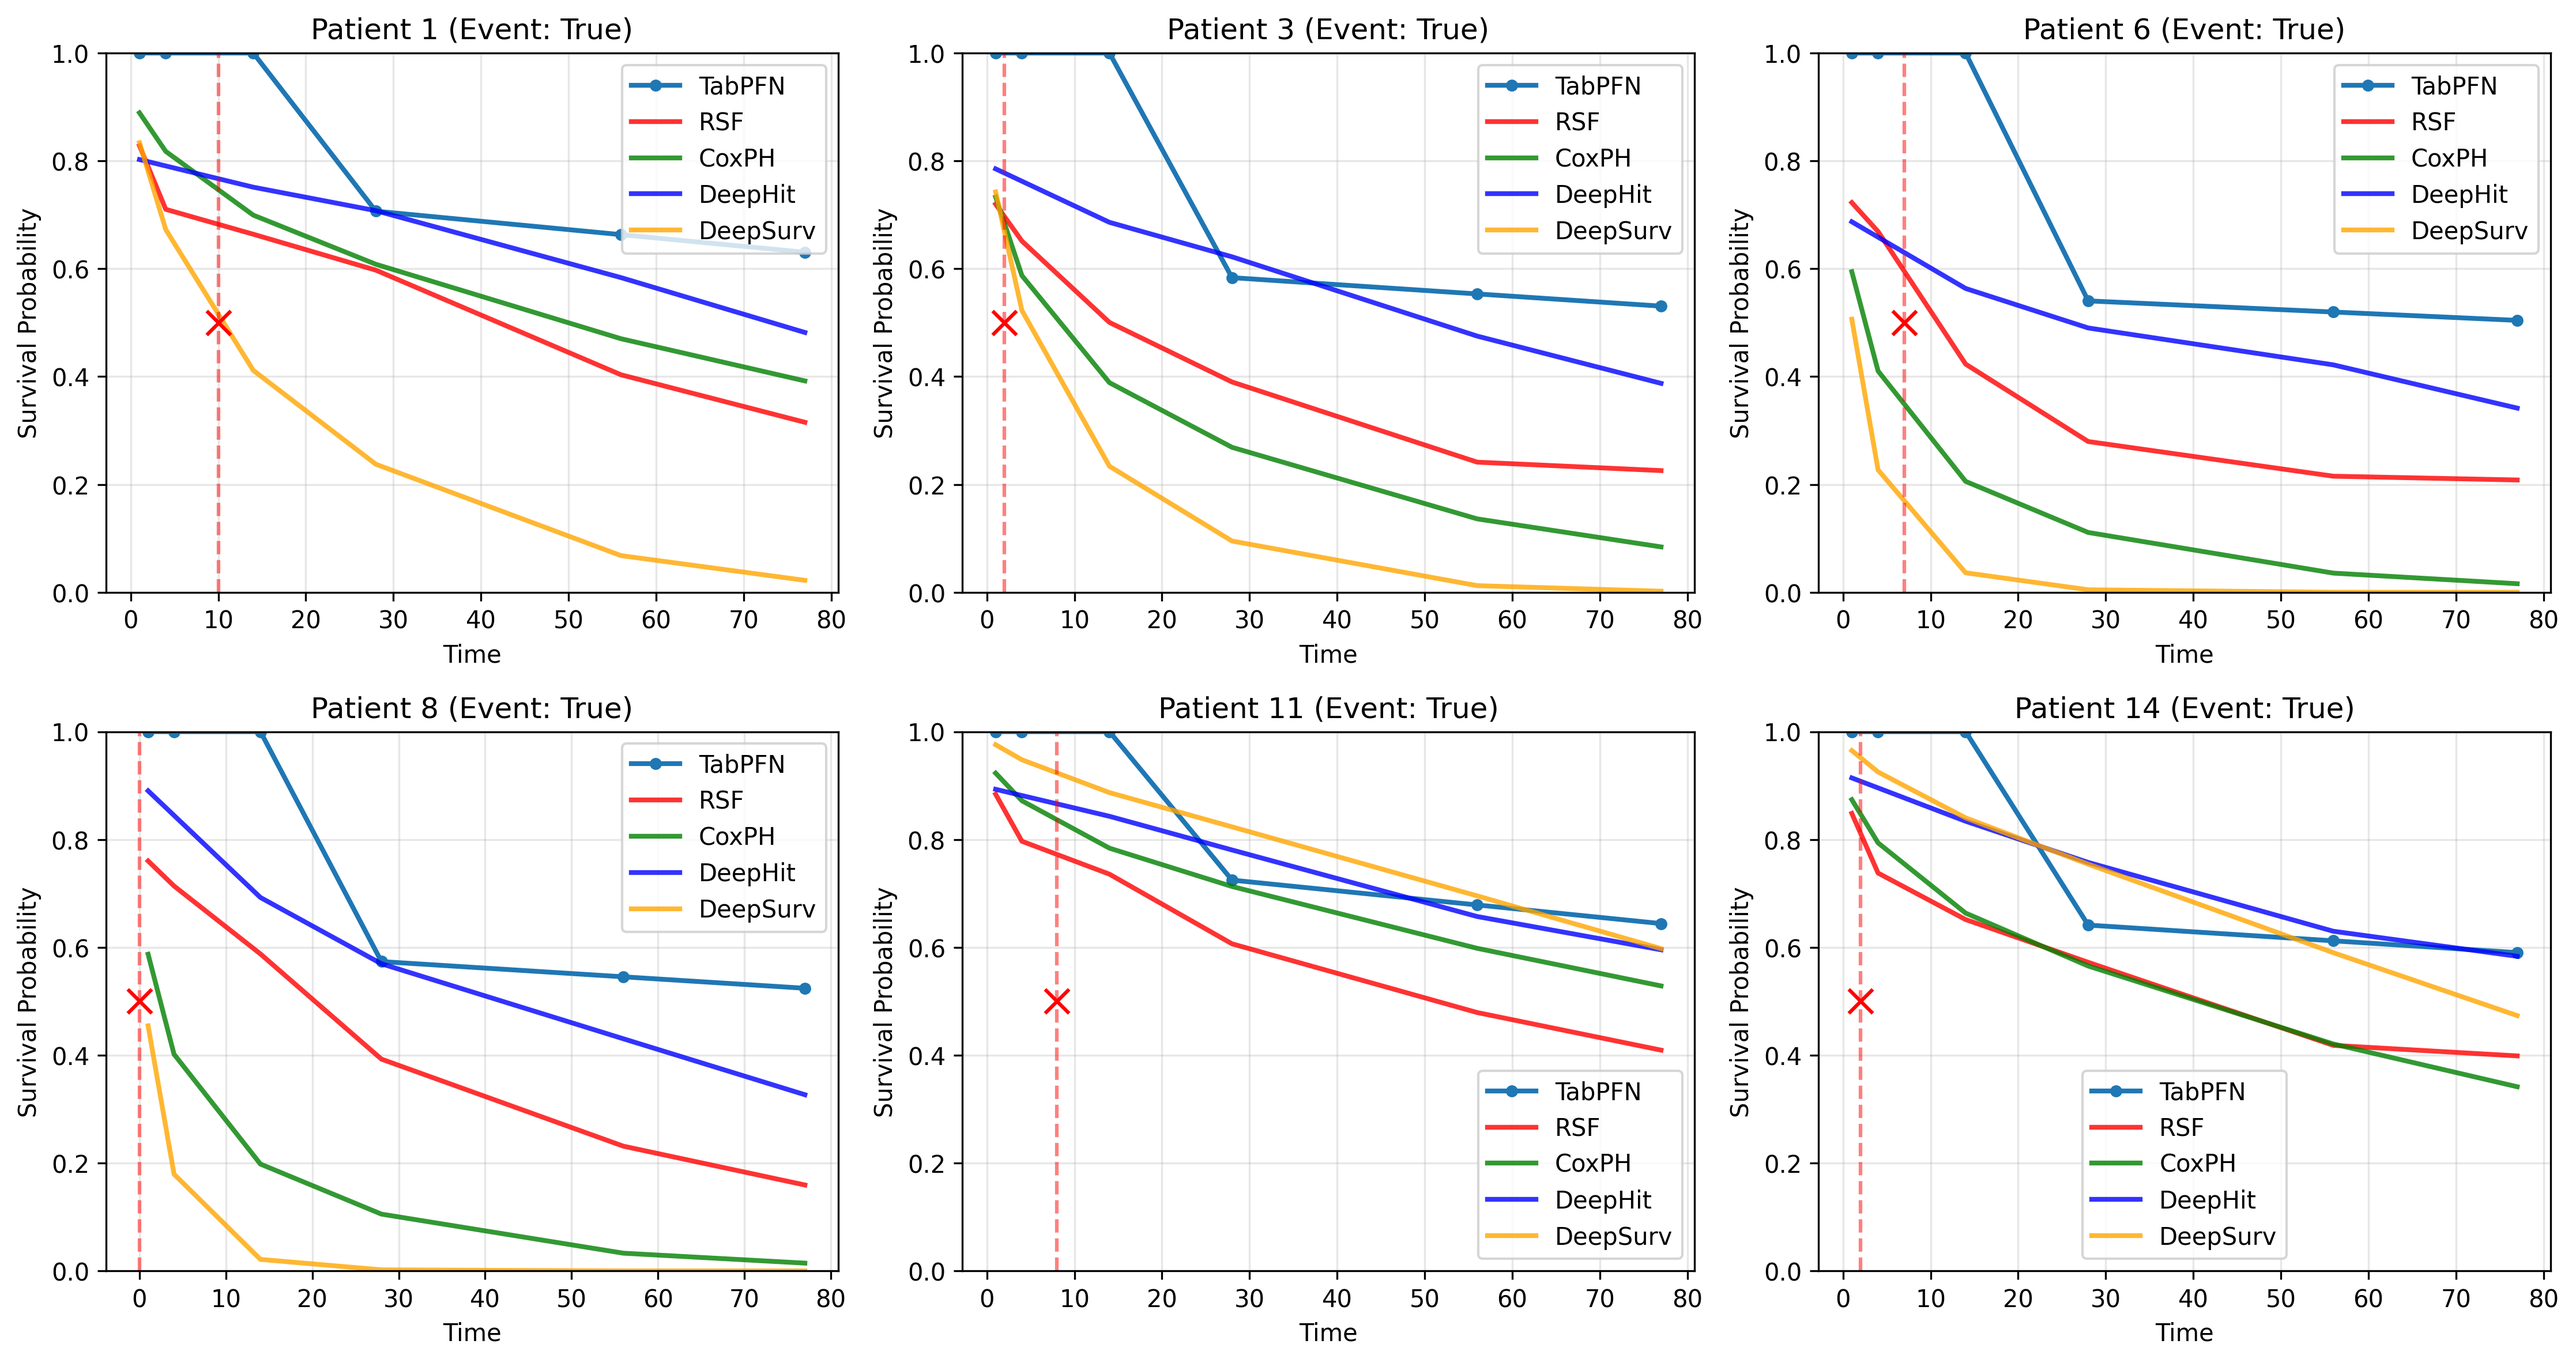
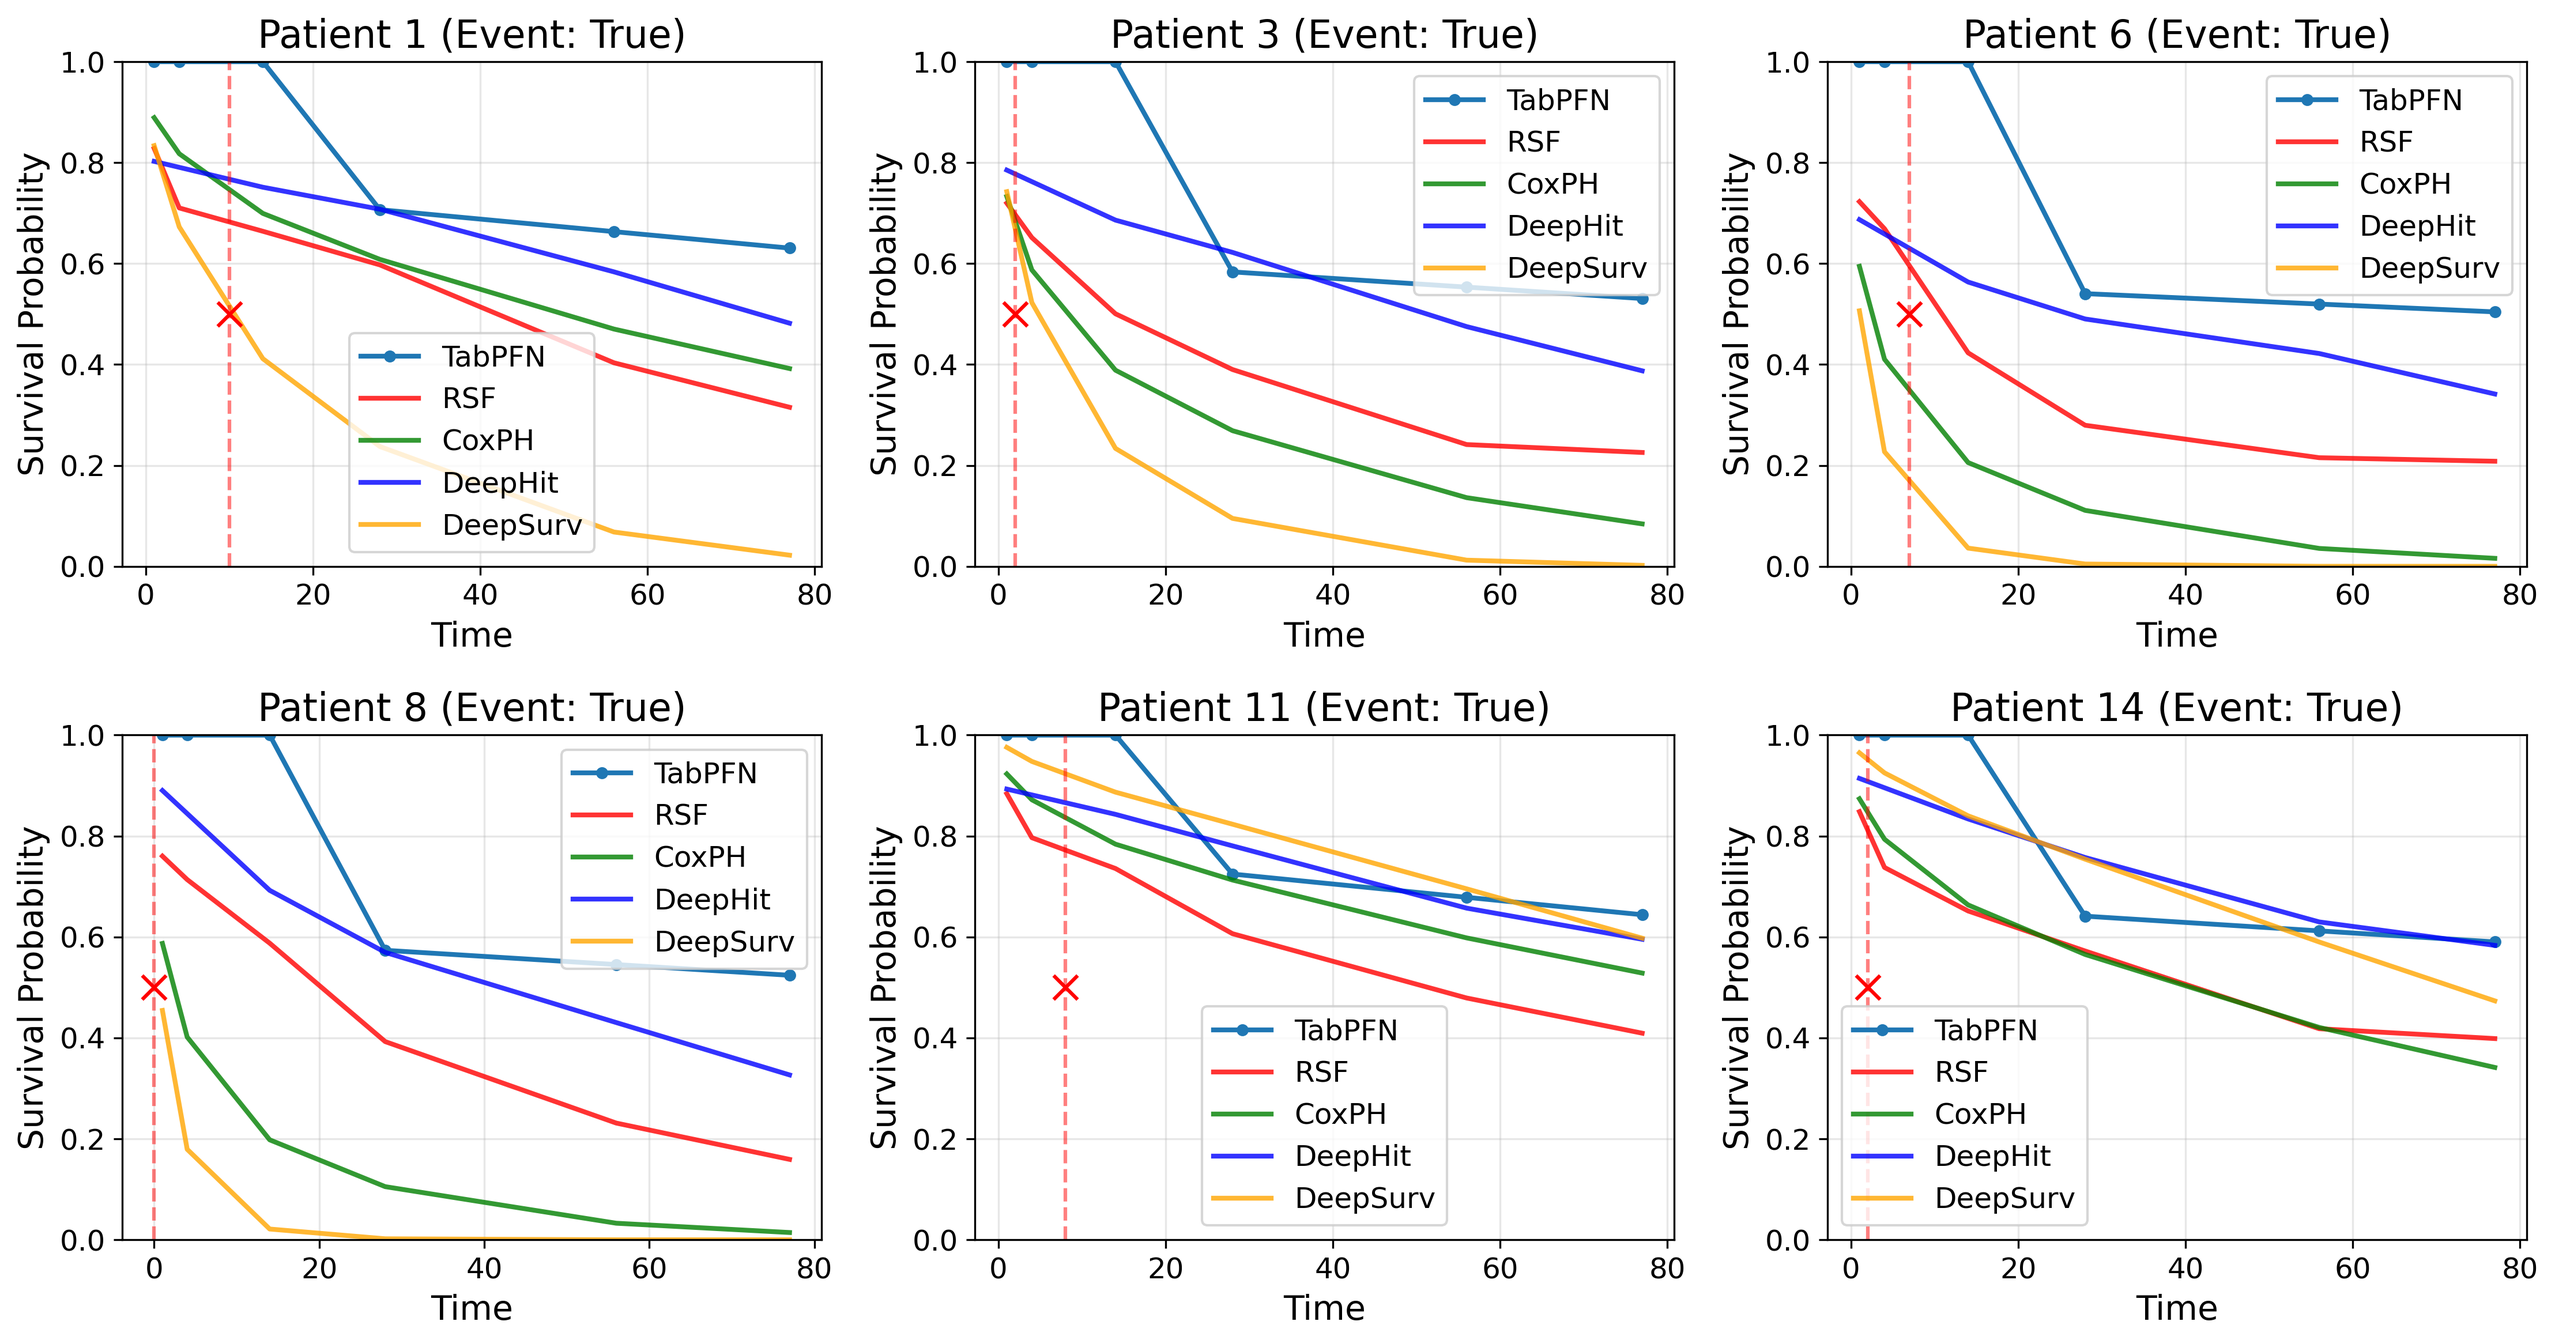
increase font size

diff --git a/discrete_analysis.py b/discrete_analysis.py
@@ -23,6 +23,17 @@ import warnings
 import os
 import random
 import torch
+
+# Set matplotlib font sizes
+plt.rcParams.update({
+    'font.size': 14,
+    'axes.titlesize': 16,
+    'axes.labelsize': 14,
+    'xtick.labelsize': 12,
+    'ytick.labelsize': 12,
+    'legend.fontsize': 12,
+    'figure.titlesize': 18
+})
 from sklearn.model_selection import train_test_split
 from sklearn.impute import SimpleImputer
 from sksurv.util import Surv
@@ -321,10 +332,10 @@ def plot_survival_curves_comparison(S_tabpfn, S_baselines, baseline_names, times
             ax.axvline(actual_time, color=color, linestyle='--', alpha=0.5)
             ax.scatter([actual_time], [0.5], color=color, marker=marker, s=100, zorder=10)
         
-        ax.set_xlabel('Time')
-        ax.set_ylabel('Survival Probability')
-        ax.set_title(f'Patient {idx+1} (Event: {bool(event_status)})')
-        ax.legend()
+        ax.set_xlabel('Time', fontsize=14)
+        ax.set_ylabel('Survival Probability', fontsize=14)
+        ax.set_title(f'Patient {idx+1} (Event: {bool(event_status)})', fontsize=16)
+        ax.legend(fontsize=12)
         ax.grid(True, alpha=0.3)
         ax.set_ylim(0, 1)
     
@@ -350,10 +361,10 @@ def plot_discretization_analysis(cuts, y_trainval, dataset_name):
     for cut in cuts:
         axes[0,0].axvline(cut, color='red', linestyle='--', alpha=0.6)
     
-    axes[0,0].set_xlabel('Time')
-    axes[0,0].set_ylabel('Survival Probability')
-    axes[0,0].set_title('KM Curve with Discretization Cuts')
-    axes[0,0].legend()
+    axes[0,0].set_xlabel('Time', fontsize=14)
+    axes[0,0].set_ylabel('Survival Probability', fontsize=14)
+    axes[0,0].set_title('KM Curve with Discretization Cuts', fontsize=16)
+    axes[0,0].legend(fontsize=12)
     axes[0,0].grid(True, alpha=0.3)
     
     # Plot 2: Distribution of events/censoring across bins
@@ -371,10 +382,10 @@ def plot_discretization_analysis(cuts, y_trainval, dataset_name):
     x = np.arange(len(cuts))
     axes[0,1].bar(x, bin_events, alpha=0.7, label='Events', color='red')
     axes[0,1].bar(x, bin_censored, bottom=bin_events, alpha=0.7, label='Censored', color='blue')
-    axes[0,1].set_xlabel('Discretization Bin')
-    axes[0,1].set_ylabel('Count')
-    axes[0,1].set_title('Events vs Censored by Discretization Bin')
-    axes[0,1].legend()
+    axes[0,1].set_xlabel('Discretization Bin', fontsize=14)
+    axes[0,1].set_ylabel('Count', fontsize=14)
+    axes[0,1].set_title('Events vs Censored by Discretization Bin', fontsize=16)
+    axes[0,1].legend(fontsize=12)
     
     # Plot 3: Censoring rate by time
     time_points = np.linspace(y_trainval['time'].min(), y_trainval['time'].max(), 20)
@@ -388,9 +399,9 @@ def plot_discretization_analysis(cuts, y_trainval, dataset_name):
             censoring_rates.append(0)
     
     axes[1,0].plot(time_points, censoring_rates, 'o-', linewidth=2)
-    axes[1,0].set_xlabel('Time')
-    axes[1,0].set_ylabel('Censoring Rate')
-    axes[1,0].set_title('Censoring Rate Over Time')
+    axes[1,0].set_xlabel('Time', fontsize=14)
+    axes[1,0].set_ylabel('Censoring Rate', fontsize=14)
+    axes[1,0].set_title('Censoring Rate Over Time', fontsize=16)
     axes[1,0].grid(True, alpha=0.3)
     
     # Plot 4: Risk set size over time
@@ -399,9 +410,9 @@ def plot_discretization_analysis(cuts, y_trainval, dataset_name):
         risk_set_sizes.append((y_trainval['time'] >= t).sum())
     
     axes[1,1].plot(time_points, risk_set_sizes, 'o-', linewidth=2, color='green')
-    axes[1,1].set_xlabel('Time')
-    axes[1,1].set_ylabel('Risk Set Size')
-    axes[1,1].set_title('Risk Set Size Over Time')
+    axes[1,1].set_xlabel('Time', fontsize=14)
+    axes[1,1].set_ylabel('Risk Set Size', fontsize=14)
+    axes[1,1].set_title('Risk Set Size Over Time', fontsize=16)
     axes[1,1].grid(True, alpha=0.3)
     
     plt.tight_layout()
@@ -435,10 +446,10 @@ def plot_brier_score_decomposition(S_tabpfn, S_baselines, baseline_names, y_test
     colors = ['red', 'green', 'blue', 'orange']
     for j, name in enumerate(baseline_names):
         plt.plot(times, brier_baselines[name], 's-', label=name, linewidth=2, color=colors[j % len(colors)])
-    plt.xlabel('Time')
-    plt.ylabel('Brier Score')
-    plt.title('Time-specific Brier Scores')
-    plt.legend()
+    plt.xlabel('Time', fontsize=14)
+    plt.ylabel('Brier Score', fontsize=14)
+    plt.title('Time-specific Brier Scores', fontsize=16)
+    plt.legend(fontsize=12)
     plt.grid(True, alpha=0.3)
     
     plt.tight_layout()

diff --git a/nbins_analysis.py b/nbins_analysis.py
@@ -33,6 +33,17 @@ import warnings
 import os
 import random
 import torch
+
+# Set matplotlib font sizes
+plt.rcParams.update({
+    'font.size': 14,
+    'axes.titlesize': 16,
+    'axes.labelsize': 14,
+    'xtick.labelsize': 12,
+    'ytick.labelsize': 12,
+    'legend.fontsize': 12,
+    'figure.titlesize': 18
+})
 from sklearn.model_selection import train_test_split
 from sklearn.impute import SimpleImputer
 from sksurv.util import Surv
@@ -467,23 +478,23 @@ def plot_nbins_analysis(dataset_name, results, times, n_bins_range):
     
     # IBS plot
     axes_metrics[0].plot(n_bins_values, ibs_values, 'o-', linewidth=2, markersize=8, color='red')
-    axes_metrics[0].set_xlabel('Number of Bins (n_bins)')
-    axes_metrics[0].set_ylabel('Integrated Brier Score (IBS)')
-    axes_metrics[0].set_title('IBS vs n_bins')
+    axes_metrics[0].set_xlabel('Number of Bins (n_bins)', fontsize=14)
+    axes_metrics[0].set_ylabel('Integrated Brier Score (IBS)', fontsize=14)
+    axes_metrics[0].set_title('IBS vs n_bins', fontsize=16)
     axes_metrics[0].grid(True, alpha=0.3)
     
     # C-index plot
     axes_metrics[1].plot(n_bins_values, c_index_values, 'o-', linewidth=2, markersize=8, color='blue')
-    axes_metrics[1].set_xlabel('Number of Bins (n_bins)')
-    axes_metrics[1].set_ylabel('C-index')
-    axes_metrics[1].set_title('C-index vs n_bins')
+    axes_metrics[1].set_xlabel('Number of Bins (n_bins)', fontsize=14)
+    axes_metrics[1].set_ylabel('C-index', fontsize=14)
+    axes_metrics[1].set_title('C-index vs n_bins', fontsize=16)
     axes_metrics[1].grid(True, alpha=0.3)
     
     # Mean AUC plot
     axes_metrics[2].plot(n_bins_values, mean_auc_values, 'o-', linewidth=2, markersize=8, color='green')
-    axes_metrics[2].set_xlabel('Number of Bins (n_bins)')
-    axes_metrics[2].set_ylabel('Mean AUC')
-    axes_metrics[2].set_title('Mean AUC vs n_bins')
+    axes_metrics[2].set_xlabel('Number of Bins (n_bins)', fontsize=14)
+    axes_metrics[2].set_ylabel('Mean AUC', fontsize=14)
+    axes_metrics[2].set_title('Mean AUC vs n_bins', fontsize=16)
     axes_metrics[2].grid(True, alpha=0.3)
     
     plt.tight_layout()
@@ -498,10 +509,10 @@ def plot_nbins_analysis(dataset_name, results, times, n_bins_range):
         plt.plot(times, brier_scores, 'o-', label=f'n_bins={n_bins}', 
                 color=colors[i], linewidth=2, markersize=6)
     
-    plt.xlabel('Time')
-    plt.ylabel('Brier Score')
-    plt.title(f'{dataset_name}: Time-specific Brier Scores for Different n_bins')
-    plt.legend()
+    plt.xlabel('Time', fontsize=14)
+    plt.ylabel('Brier Score', fontsize=14)
+    plt.title(f'{dataset_name}: Time-specific Brier Scores for Different n_bins', fontsize=16)
+    plt.legend(fontsize=12)
     plt.grid(True, alpha=0.3)
     plt.tight_layout()
     plt.savefig(f'figures/nbins_analysis/{dataset_name}_time_specific_brier_nbins.png', dpi=300, bbox_inches='tight')
@@ -539,22 +550,22 @@ def create_summary_plots(all_results, dataset_names, n_bins_range):
         axes[2].plot(n_bins_values, mean_auc_values, 'o-', label=dataset_name, 
                     color=colors[i], linewidth=2, markersize=6)
     
-    axes[0].set_xlabel('Number of Bins (n_bins)')
-    axes[0].set_ylabel('Integrated Brier Score (IBS)')
-    axes[0].set_title('IBS vs n_bins (All Datasets)')
-    axes[0].legend()
+    axes[0].set_xlabel('Number of Bins (n_bins)', fontsize=14)
+    axes[0].set_ylabel('Integrated Brier Score (IBS)', fontsize=14)
+    axes[0].set_title('IBS vs n_bins (All Datasets)', fontsize=16)
+    axes[0].legend(fontsize=12)
     axes[0].grid(True, alpha=0.3)
     
-    axes[1].set_xlabel('Number of Bins (n_bins)')
-    axes[1].set_ylabel('C-index')
-    axes[1].set_title('C-index vs n_bins (All Datasets)')
-    axes[1].legend()
+    axes[1].set_xlabel('Number of Bins (n_bins)', fontsize=14)
+    axes[1].set_ylabel('C-index', fontsize=14)
+    axes[1].set_title('C-index vs n_bins (All Datasets)', fontsize=16)
+    axes[1].legend(fontsize=12)
     axes[1].grid(True, alpha=0.3)
     
-    axes[2].set_xlabel('Number of Bins (n_bins)')
-    axes[2].set_ylabel('Mean AUC')
-    axes[2].set_title('Mean AUC vs n_bins (All Datasets)')
-    axes[2].legend()
+    axes[2].set_xlabel('Number of Bins (n_bins)', fontsize=14)
+    axes[2].set_ylabel('Mean AUC', fontsize=14)
+    axes[2].set_title('Mean AUC vs n_bins (All Datasets)', fontsize=16)
+    axes[2].legend(fontsize=12)
     axes[2].grid(True, alpha=0.3)
     
     plt.tight_layout()
